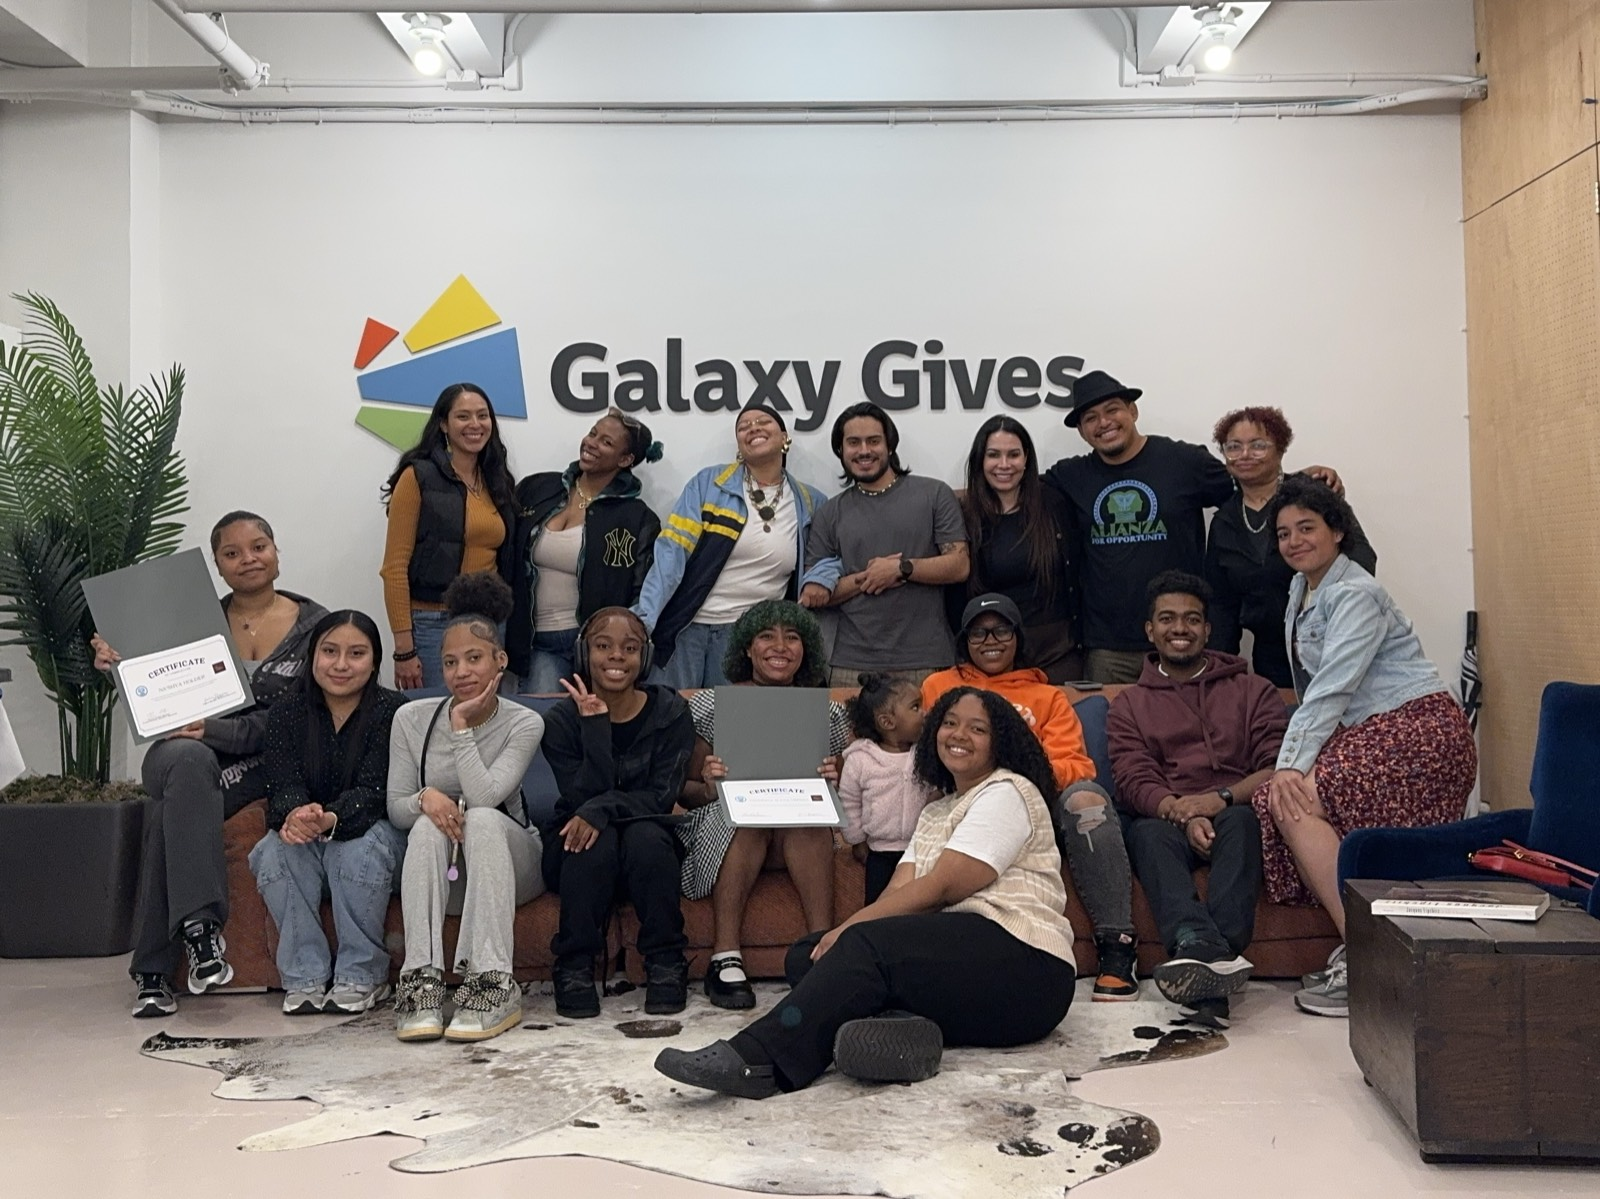
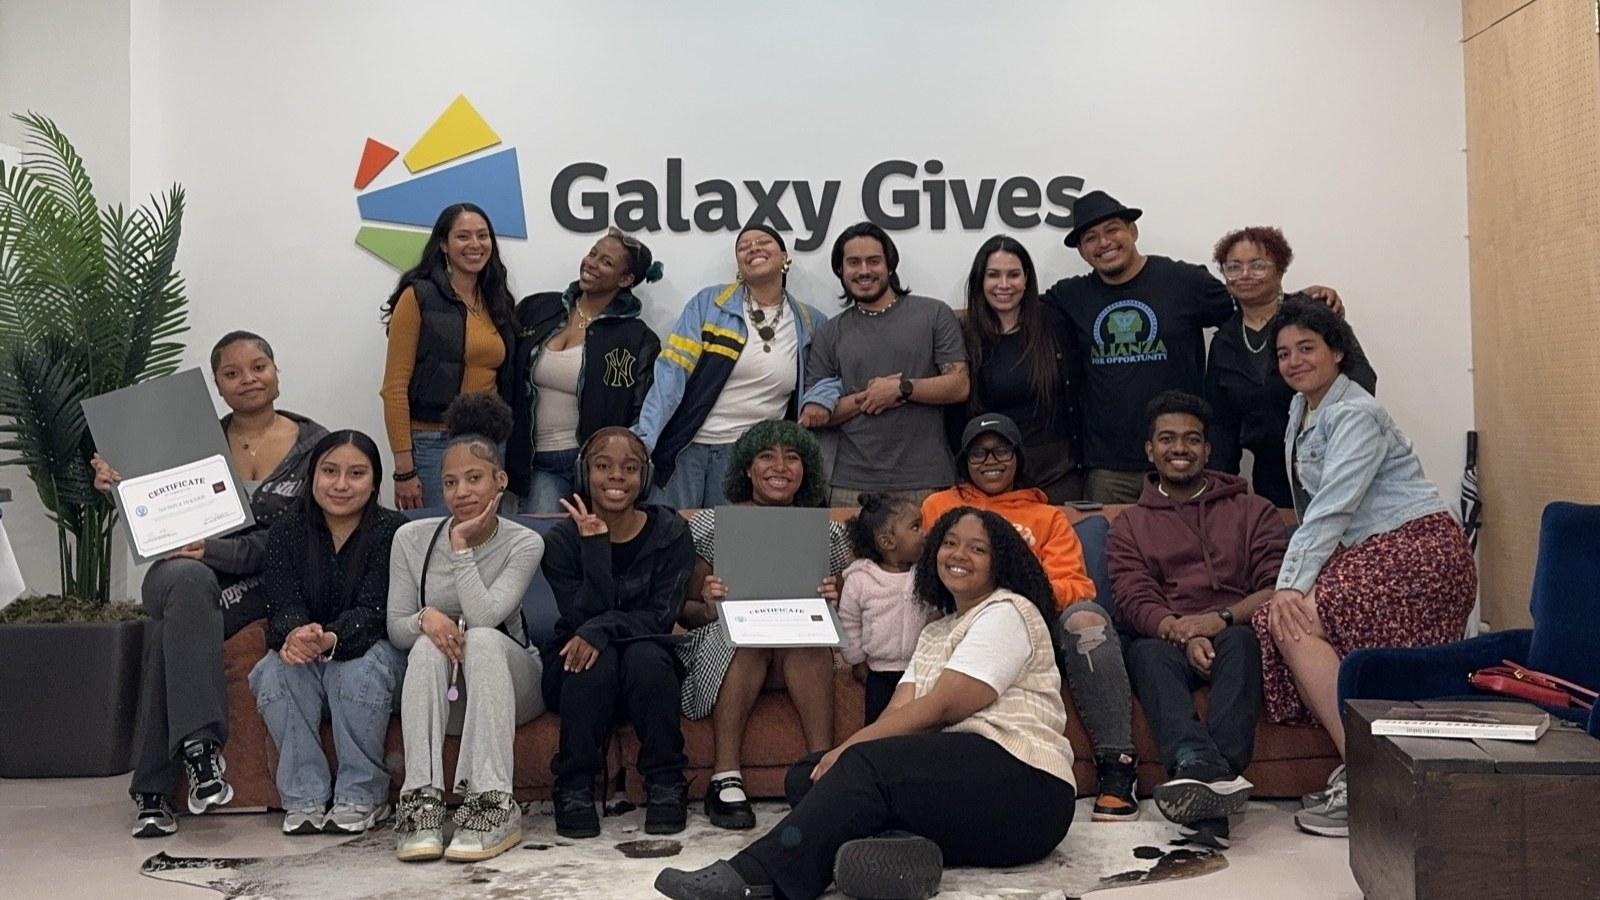
Crop photo-3 to match the other two photos' proportions
Trim mostly-empty ceiling and floor from photo-3.jpg so it shares
the same 1600x900 dimensions as photo-1 and photo-2, evening out
the photo row without needing any CSS changes.

diff --git a/PROMPTS.md b/PROMPTS.md
@@ -121,3 +121,11 @@ A running record of the prompts given to build this one-page website, and what w
 **Prompt:** Asked for a final pass over the completed build "with an eye like a coding instructor" and a brief summary of anything missed. Findings: the CTA still pointed to `#`, two of the three Section 2 photos were being cropped (16:9 photos forced into a 4:3 box), and the lightbox was missing proper dialog accessibility semantics. Asked to fix all three — provided the real Google Form URL for the CTA, confirmed the cropping should be fixed so photos render in full, and asked for the dialog semantics fix with a plain-English explanation.
 
 **Built:** Pointed the CTA button at the real application Google Form, opening in a new tab (`target="_blank" rel="noopener noreferrer"`) so visitors don't lose the info page. Removed the fixed `aspect-ratio`/`object-fit: cover` from `.gain-photo` so all three photos render at their true proportions with nothing cropped off (tradeoff: the three photos in the row are no longer the same height). Added modal dialog semantics to the lightbox in `script.js`: `role="dialog"`, `aria-modal="true"`, and `aria-label` on the overlay so screen readers announce it correctly; a focus trap so Tab/Shift+Tab can't escape into the page behind the open lightbox; and focus restoration so closing it returns keyboard focus to wherever it was before opening. Verified all three fixes with screenshots and a JS-error check.
+
+---
+
+### 16. Even out the photo row
+
+**Prompt:** Noticed photo-3 was now visibly taller than the other two (a side effect of fixing the cropping in step 15) and asked to crop the top and bottom of that actual photo a bit so its proportions match the other two.
+
+**Built:** Looked at photo-3.jpg first to find a safe crop line, then cropped it from 1600×1199 down to 1600×900 — trimming mostly empty ceiling from the top and empty floor from the bottom, keeping everyone in the photo fully in frame. It now shares the exact same 1600×900 dimensions as photo-1 and photo-2, so all three render at matching sizes in the row automatically — no CSS or HTML changes needed, just the image file itself. Verified with a screenshot.
